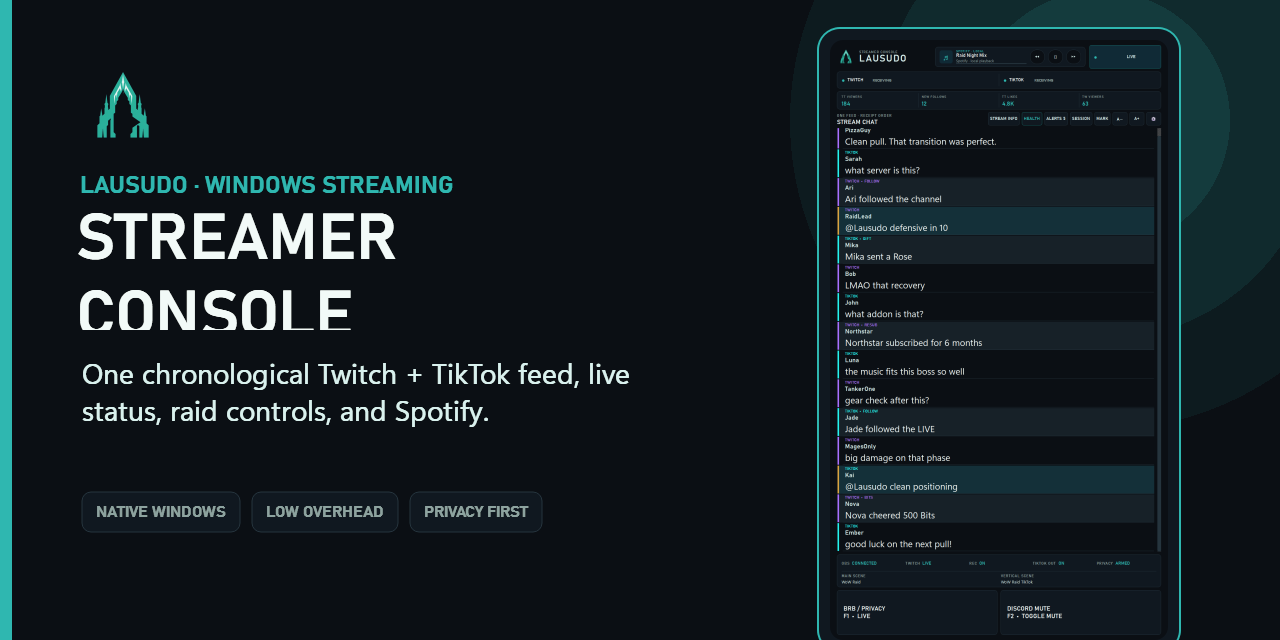
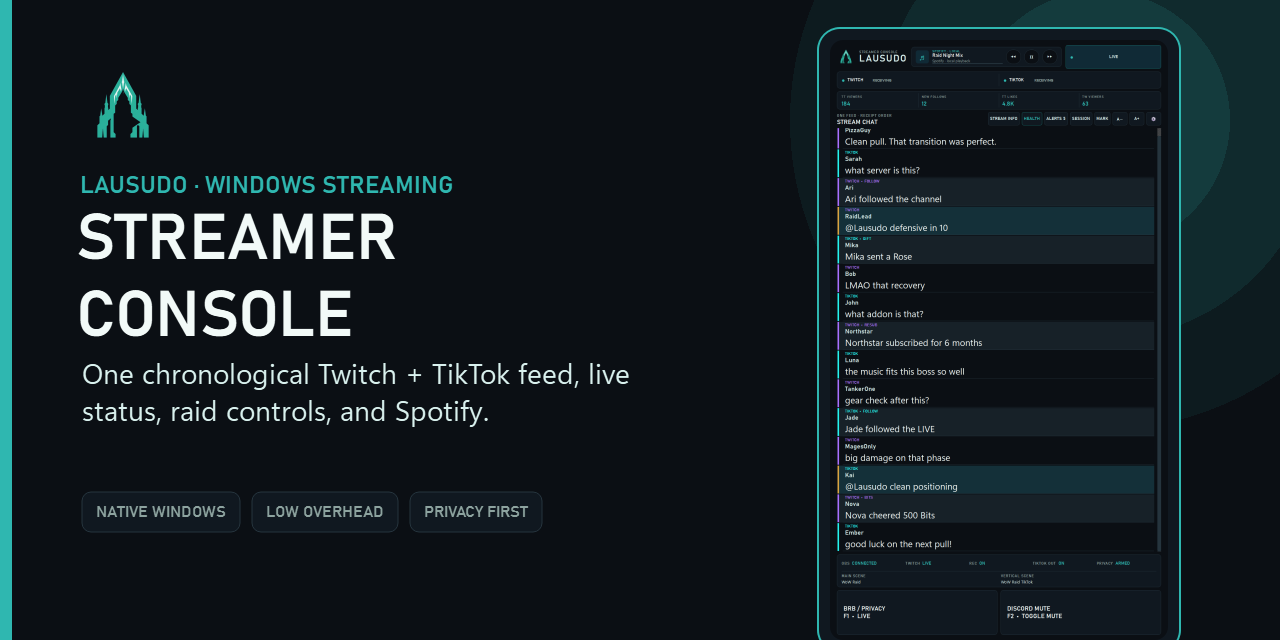
chore(release): prepare Streamer Console 1.1.1 (#6)

diff --git a/tools/render_previews.py b/tools/render_previews.py
@@ -249,7 +249,7 @@ def _draw_social_preview(app_image: QImage) -> QImage:
 
     painter.setPen(QColor(COLORS.text))
     painter.setFont(QFont("Bahnschrift SemiBold", 48, QFont.Weight.Bold))
-    painter.drawText(QRect(76, 208, 690, 122), Qt.TextFlag.TextWordWrap, "STREAMER\nCONSOLE")
+    painter.drawText(QRect(76, 208, 690, 144), Qt.TextFlag.TextWordWrap, "STREAMER\nCONSOLE")
 
     painter.setPen(QColor(COLORS.mist))
     painter.setFont(QFont("Segoe UI Variable Text", 21, QFont.Weight.Normal))

diff --git a/tests/test_repository_quality.py b/tests/test_repository_quality.py
@@ -22,7 +22,7 @@ class RepositoryQualityTests(unittest.TestCase):
         )
 
         self.assertEqual(project["project"]["version"], __version__)
-        self.assertEqual(__version__, "1.1.0")
+        self.assertEqual(__version__, "1.1.1")
 
     def test_local_documentation_links_resolve(self) -> None:
         missing: list[str] = []

diff --git a/streamer_console/__init__.py b/streamer_console/__init__.py
@@ -1,3 +1,3 @@
 """Lausudo Streamer Console."""
 
-__version__ = "1.1.0"
+__version__ = "1.1.1"

diff --git a/CHANGELOG.md b/CHANGELOG.md
@@ -1,3 +1,9 @@
+---
+author: Neil Mitchell
+creator: Neil Mitchell
+last_modified_by: Neil Mitchell
+---
+
 # Changelog
 
 All notable changes to Lausudo Streamer Console are documented here. The format
@@ -5,18 +11,11 @@ follows [Keep a Changelog](https://keepachangelog.com/en/1.1.0/).
 
 ## [Unreleased]
 
-### Fixed
+## [1.1.1] — 2026-09-06
 
-- Center the READY/LIVE/STANDBY label within its status control while retaining
-  the independent teal state dot at the left edge.
-- Place TikTok LIVE Studio at its supported 1200-by-740-pixel size so its own
-  size constraint no longer makes F3 report a false placement failure and beep.
-- Open and minimize the required TikTok LIVE source page and Twitch pop-out
-  fallback alongside the Social Stream Ninja background service when F3 runs.
-- Clarify that a cold TikTok launch can show TikTok's own UAC prompt while the
-  protected placement task continues to run silently.
-
-## [1.1.0] — 2026-08-30
+This is the next published release after 1.0.0. It includes the changes previously
+recorded under the unpublished 1.0.1 and 1.1.0 development headings, together with
+the subsequent workspace fixes. Neither intermediate version was published.
 
 ### Added
 
@@ -26,24 +25,6 @@ follows [Keep a Changelog](https://keepachangelog.com/en/1.1.0/).
 - Idempotent missing-app launch, existing-window reuse, bounded readiness,
   background Social Stream Ninja/Spotify handling, and focus restoration.
 - Reversible per-user Startup installation plus dedicated removal tooling.
-
-### Security
-
-- The F3 controller is isolated from OBS, stream, recording, scene, audio,
-  Virtual Camera, Discord mute, and Voicemeeter routing state.
-
-### Fixed
-
-- Preserve installed working directories when launching OBS and TikTok LIVE
-  Studio, preventing OBS locale-loading failures.
-- Use the normal Windows elevation path for TikTok LIVE Studio and recognize
-  elevated application windows without opening their process handles.
-- Reuse the existing Chrome profile for Social Stream Ninja instead of creating
-  a blank forced-profile app window.
-- Restore foreground focus from the initiating F3 hotkey process rather than
-  from a background Python child that Windows rejects.
-
-## [1.0.1] — 2026-08-28
 
 ### Changed
 
@@ -55,12 +36,37 @@ follows [Keep a Changelog](https://keepachangelog.com/en/1.1.0/).
 - Short, wide Snap layouts now compact the header, stream-status panel, Spotify
   transport, and BRB/Discord controls so the unified chat and alert feed receives
   more than twice the visible height in the shared portrait-monitor arrangement.
+- Refresh the synthetic README and GitHub preview images to match the current UI.
+- Permit compatible websockets 17.x releases alongside 16.x.
 
 ### Fixed
 
+- Center the READY/LIVE/STANDBY label within its status control while retaining
+  the independent teal state dot at the left edge.
+- Place TikTok LIVE Studio at its supported 1200-by-740-pixel size so its own
+  size constraint no longer makes F3 report a false placement failure and beep.
+- Open and minimize the required TikTok LIVE source page and Twitch pop-out
+  fallback alongside the Social Stream Ninja background service when F3 runs.
+- Retain final application placements through startup and recheck Discord's
+  final bounds before deciding whether F3 should report a placement failure.
+- Clarify that a cold TikTok launch can show TikTok's own UAC prompt while the
+  protected placement task continues to run silently.
+- Preserve installed working directories when launching OBS and TikTok LIVE
+  Studio, preventing OBS locale-loading failures.
+- Use the normal Windows elevation path for TikTok LIVE Studio and recognize
+  elevated application windows without opening their process handles.
+- Reuse the existing Chrome profile for Social Stream Ninja instead of creating
+  a blank forced-profile app window.
+- Restore foreground focus from the initiating F3 hotkey process rather than
+  from a background Python child that Windows rejects.
 - Twitch authorization now persists through Windows Credential Manager when
   direct DPAPI access is denied, while retaining the legacy encrypted-file reader
   for existing installations.
+
+### Security
+
+- The F3 controller is isolated from OBS, stream, recording, scene, audio,
+  Virtual Camera, Discord mute, and Voicemeeter routing state.
 
 ## [1.0.0] — 2026-08-15
 
@@ -84,6 +90,6 @@ follows [Keep a Changelog](https://keepachangelog.com/en/1.1.0/).
 - Credential redaction and no chat-body logging.
 - Evidence-based BRB privacy status covering microphone monitoring and Spotify routing.
 
-[1.1.0]: https://github.com/CRSD-Lau/Lausudo-Streamer-Console/compare/v1.0.1...HEAD
-[1.0.1]: https://github.com/CRSD-Lau/Lausudo-Streamer-Console/compare/v1.0.0...v1.0.1
+[Unreleased]: https://github.com/CRSD-Lau/Lausudo-Streamer-Console/compare/v1.1.1...HEAD
+[1.1.1]: https://github.com/CRSD-Lau/Lausudo-Streamer-Console/compare/v1.0.0...v1.1.1
 [1.0.0]: https://github.com/CRSD-Lau/Lausudo-Streamer-Console/releases/tag/v1.0.0

diff --git a/README.md b/README.md
@@ -207,7 +207,8 @@ not send global hotkeys, post production chat, or control OBS. See
 
 ## Project status and legal notice
 
-Version 1.1.0 reflects the current Lausudo production workflow. TikTok data is
+Version 1.1.1 packages the maintained Lausudo workflow, including the F3 workspace
+controller and the reliability fixes since the published 1.0.0 release. TikTok data is
 best effort because it depends on the browser LIVE page and Social Stream Ninja;
 platform changes, login gates, CAPTCHA, and throttling can affect collection.
 
